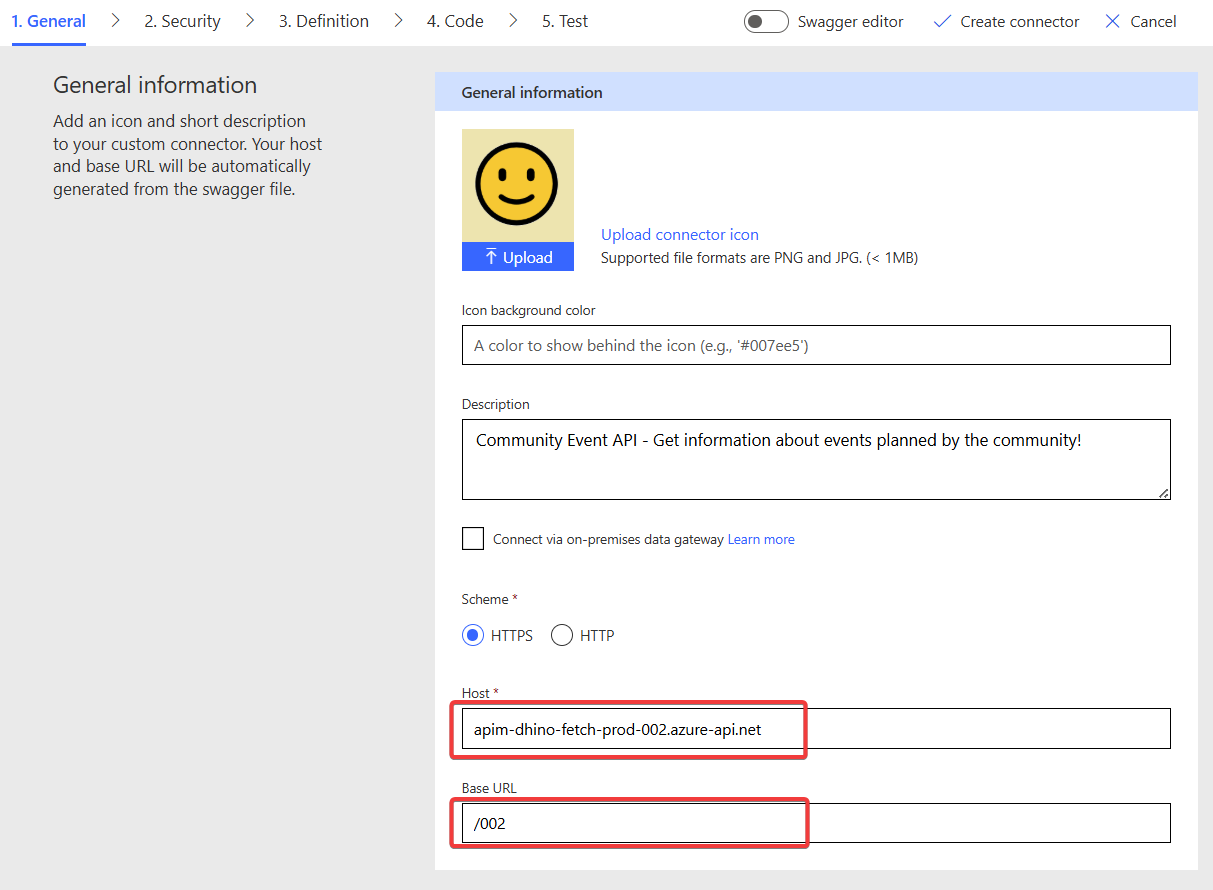
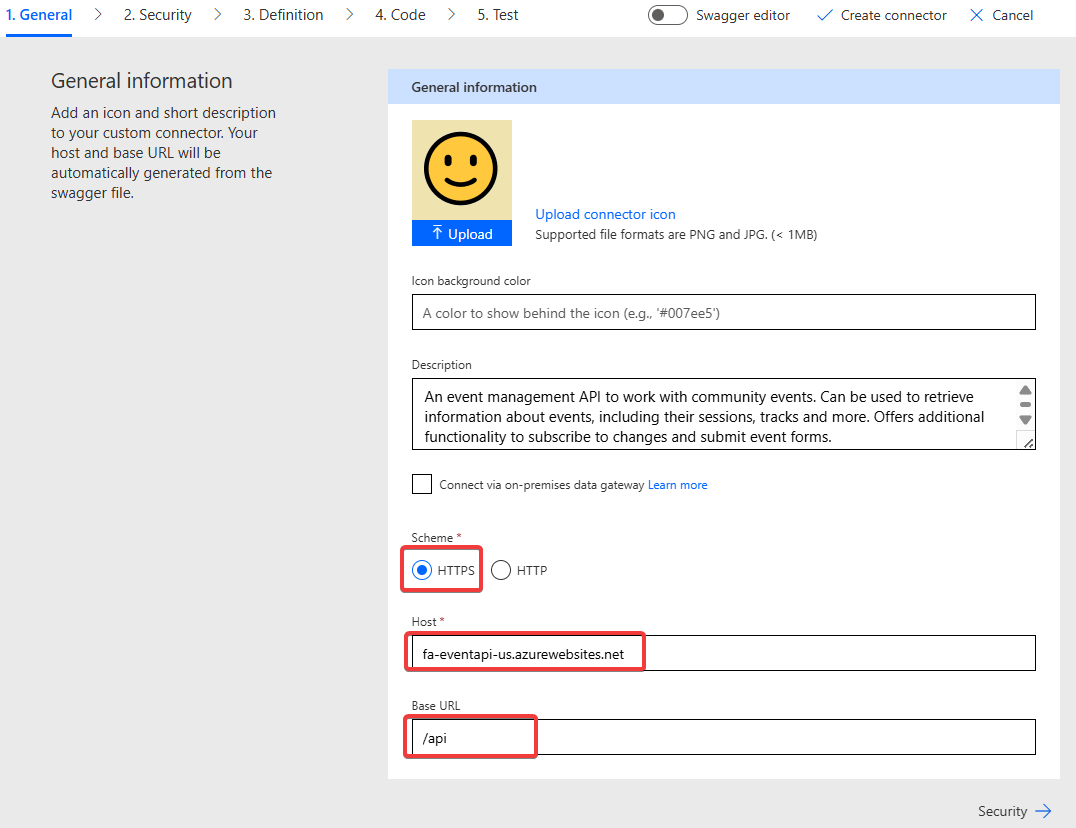
Lab01

diff --git a/docs/lab-01/index.md b/docs/lab-01/index.md
@@ -20,13 +20,21 @@ In a new tab the Custom Connector edit wizard will be opened in the first step.
 
 !["Create Connector Wizard - Naming](./assets/0100_01_wizardname.png)
 
-First step is given your Custom Connector a meaningful name, make sure to use a name your users will understand, this will show up in all UIs. Bonus points if you also add an icon below under **General Information**
+First step is given your Custom Connector a meaningful name, make sure to use a name your users will understand, this will show up in all UIs. Bonus points if you also add an icon below under **General Information**. Also give it's a description and remember to update the description later when new actions and functionalities are added. You can use this one first:
+
+"An event management API to work with community events. Can be used to retrieve information about events, including their sessions, tracks and more. Offers additional functionality to subscribe to changes and submit event forms."
 
 Next you need to select **HTTPS** and fill in the **Host** and **Base URL**. The community event API can be reached via dhino (Middleware used to publish Dataverse data) under the following url. Do not fill the "https://" part in the host and you can only put the root URL until the first "/" there. The "Base URL" is the part of the URL which is common to all requests being done via this custom connector.
 
-**<https://fa-eventapi-us.azurewebsites.net/api >** **TODO**
+The Event API we are connecting to can be reached with this URL **https://fa-eventapi-us.azurewebsites.net/api**. You need to split this into the following parts in the wizard:
 
-!["Adding Host and Base URL"](./assets/0100_02_hosturl.png) **TODO**
+| Url Part | Value |
+|-----|-------------|
+| **Scheme** | HTTPS |
+| **Host** | fa-eventapi-us.azurewebsites.net |
+| **Base URL** | /api | 
+
+!["Adding Host and Base URL"](./assets/0100_02_hosturl.png) 
 
 ## 🔐 Define Security / Authentication
 
